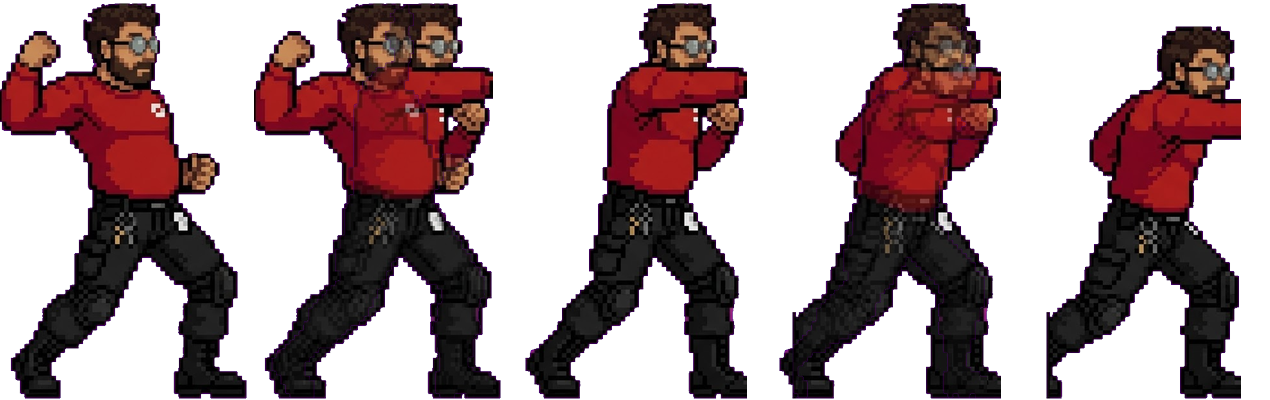
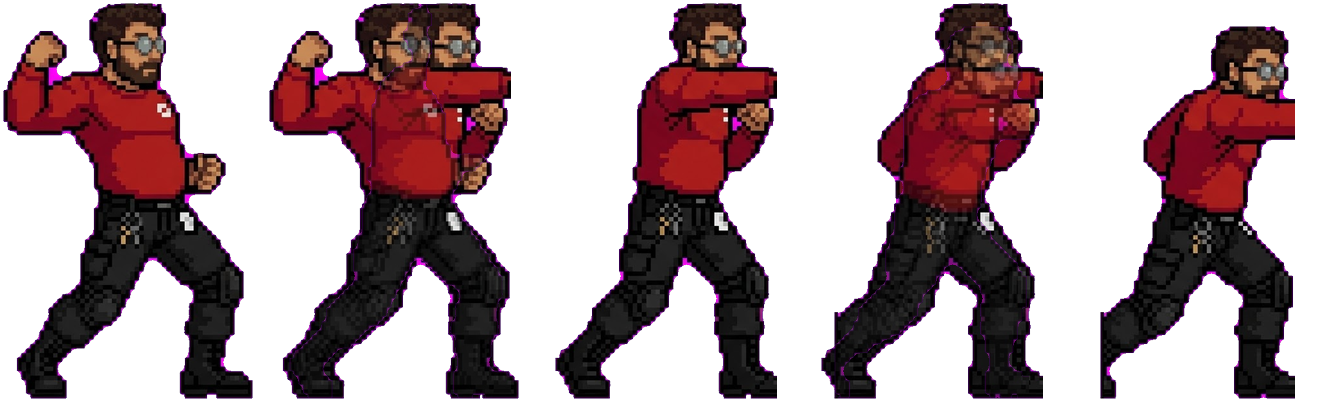
Calcio: gamba del windup riparata e impatto completo (box segmentazione dai bordi delle componenti connesse), cache v=7

diff --git a/index.html b/index.html
@@ -97,9 +97,9 @@ Rr(432,200,44,38,'#14141c');Rr(434,202,40,34,'#c8482a');Rr(444,214,20,10,'#fff')
 function R(x,y,w,h,col){c.fillStyle='#07070c';c.fillRect(x-1,y-1,w+2,h+2);c.fillStyle=col;c.fillRect(x,y,w,h)}
 /* sprite BEPPE (da Google Drive): 1 riga per animazione in assets/characters/beppe/, corpo in piedi normalizzato a 400px, piedi sul bordo inferiore, rivolti a destra */
 const SPR={},SPRB=400,SPRN={idle:4,walk:4,punch:5,kick:5,heavy:5,jump:3,block:1,crouch:1,special:5};
-for(const a of Object.keys(SPRN)){const im=new Image();im.onload=()=>{SPR[a]=im};im.src='assets/characters/beppe/beppe-'+a+'.png?v=6'}
-const PAL=new Image();PAL.src='assets/characters/beppe/pallet.png?v=6';
-const BGI=new Image();BGI.src='assets/backgrounds/arena-supermercato.png?v=6';
+for(const a of Object.keys(SPRN)){const im=new Image();im.onload=()=>{SPR[a]=im};im.src='assets/characters/beppe/beppe-'+a+'.png?v=7'}
+const PAL=new Image();PAL.src='assets/characters/beppe/pallet.png?v=7';
+const BGI=new Image();BGI.src='assets/backgrounds/arena-supermercato.png?v=7';
 const SPR_H=0.45*384/2, SPRK=SPR_H/SPRB; /* altezza sprite ~45% del canvas, in coordinate mondo */
 function draw(f,x,y,pose,sc){const L=f.L,s=pose||f.st,t=f.t,e=f.ext||0;sc=(sc||1)*(L.big?1.12:1);
 if(L.n=='BEPPE'&&SPR.idle){let name='idle',fi=0;
